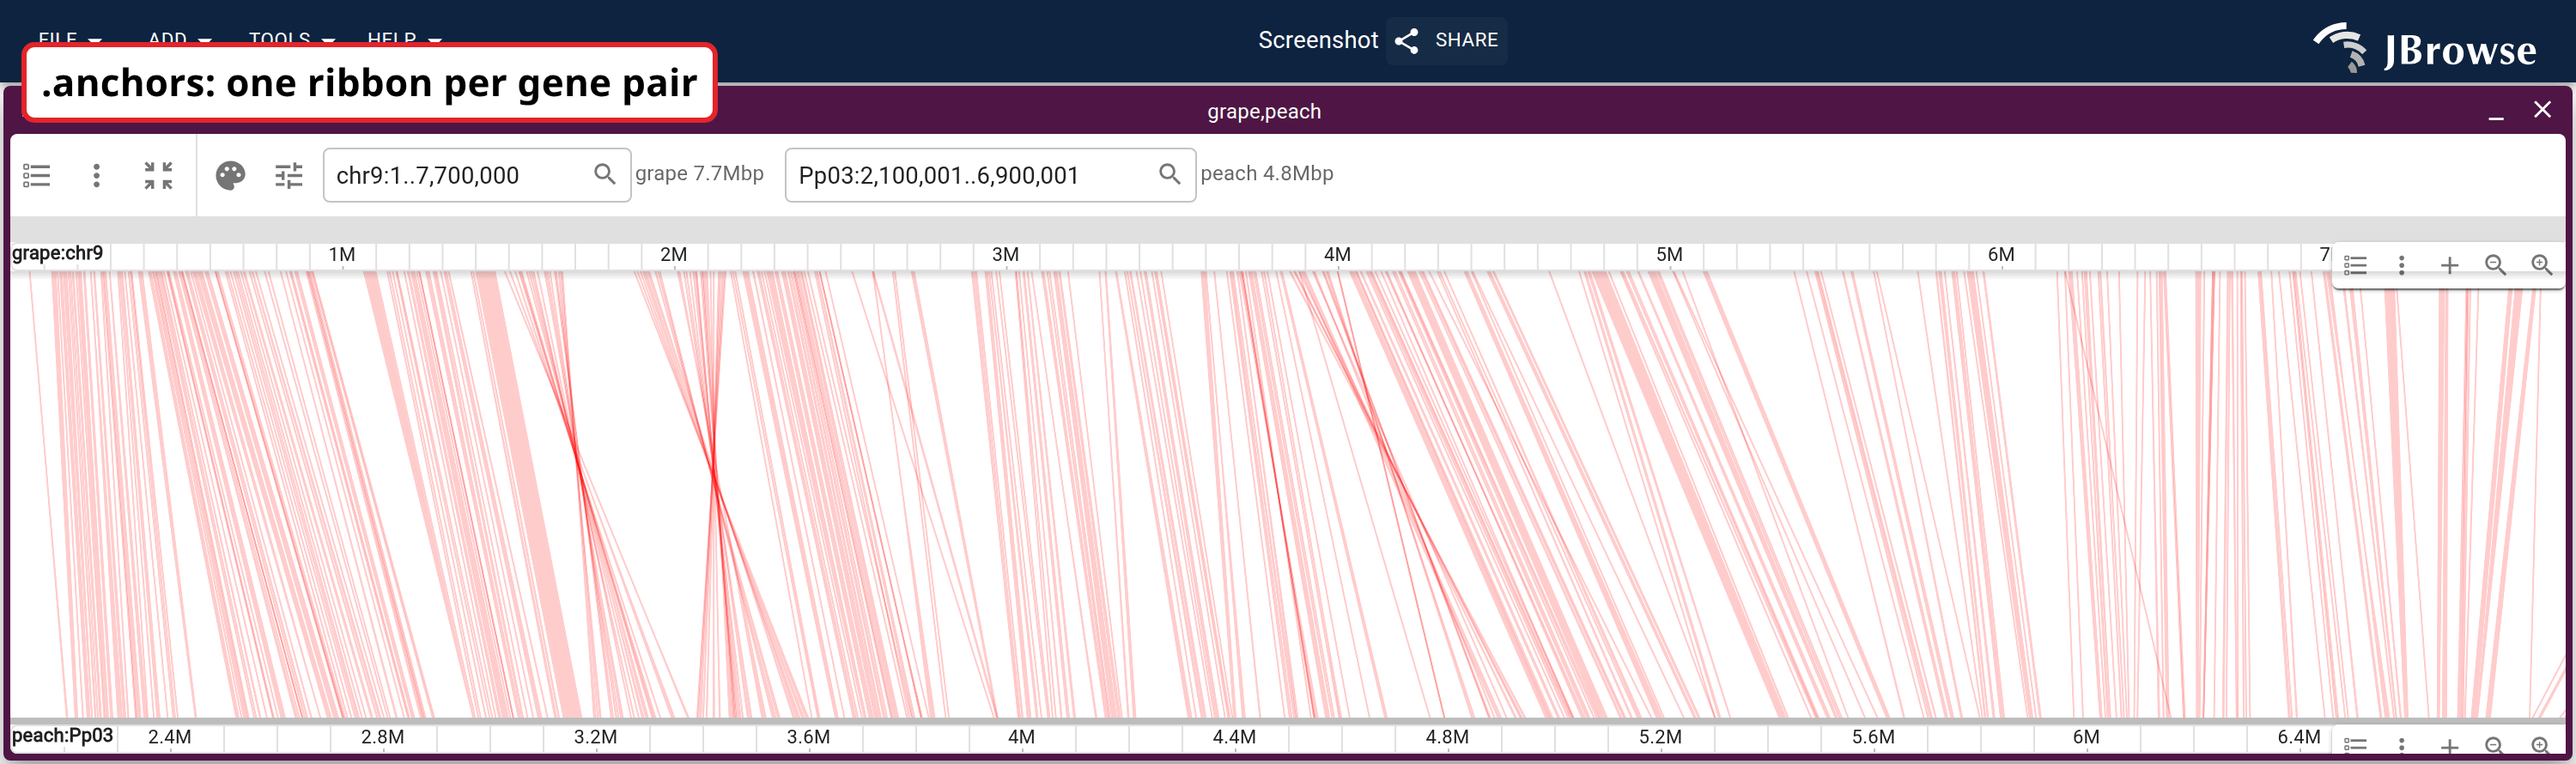
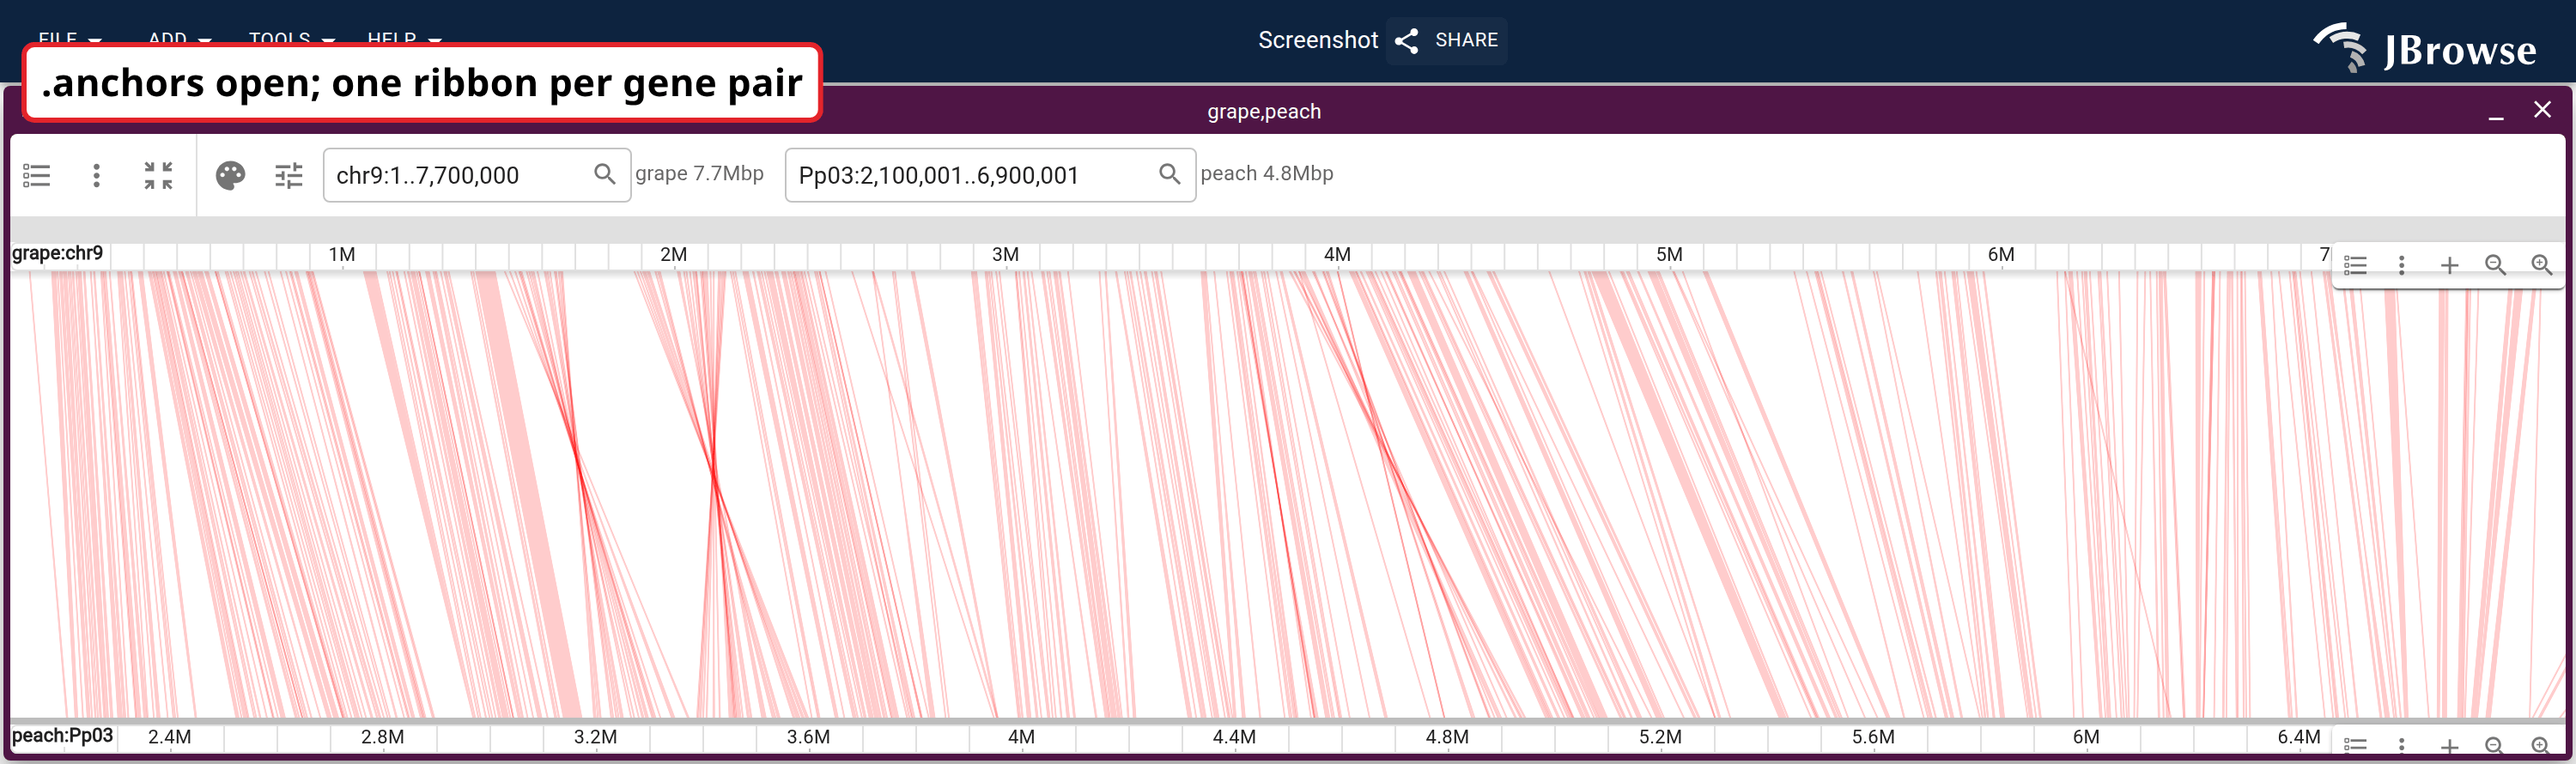
docs(website): say which files each MCScan panel has open
Review, on the two-panel .anchors figure: the first panel's label should say
".anchors open; one ribbon per gene pair" and the second should say what it
actually draws, both files at once. The old labels named the file and left the
reader to infer that the second panel still has the first one loaded.

The second label needs two lines, so the callout gets a maxWidth rather than
the 420px default, which broke it after "one ribbon per" and orphaned a word.

Regenerated with --force: a text-only change moves well under the 0.5%
content-stable gate and would otherwise have been kept with the old labels.

Changed region(s): [[0.062, 0.0303, 0.341, 0.182]]

diff --git a/website/scripts/specs/synteny.ts b/website/scripts/specs/synteny.ts
@@ -127,19 +127,26 @@ function mcscanFilePartSpecs(): ScreenshotSpec[] {
     // two collapsed scalebar rows around one 260px band
     viewportHeight: 445,
     annotations: [
-      { type: 'text' as const, x: 24, y: 56, fontSize: 22, text: label },
+      {
+        type: 'text' as const,
+        x: 24,
+        y: 56,
+        fontSize: 22,
+        maxWidth: 700,
+        text: label,
+      },
     ],
   })
   return [
     part(
       'mcscan_synteny/anchors',
       ['grape_peach_synteny_mcscan'],
-      '.anchors: one ribbon per gene pair',
+      '.anchors open; one ribbon per gene pair',
     ),
     part(
       'mcscan_synteny/anchors_simple',
       ['grape_peach_synteny_mcscan_simple', 'grape_peach_synteny_mcscan'],
-      '.anchors.simple blocks over the same gene pairs',
+      '.anchors and .anchors.simple open; one ribbon per gene\nrendered on top of chained synteny blocks',
     ),
   ]
 }
